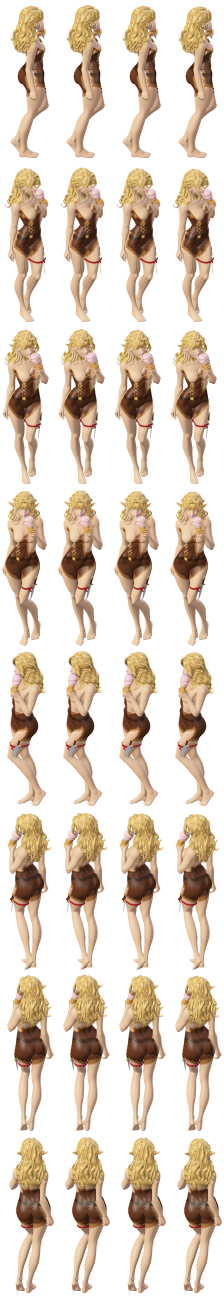
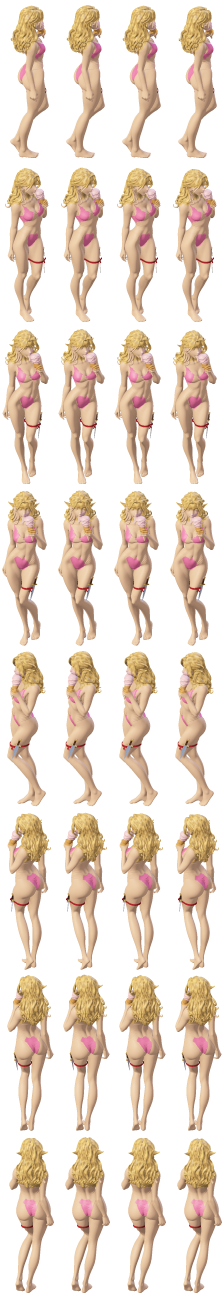
Elyra: pinta só o biquíni do modelo (rosa), resto na pele; mantém fita e adaga na coxa
Claude-Session: https://claude.ai/code/session_01SXT9RkSNWGpum4vy2atWQs

diff --git a/ferramentas/elfa/biq2.py b/ferramentas/elfa/biq2.py
@@ -1,0 +1,36 @@
+import numpy as np, scipy.sparse as sp, sys
+from scipy.sparse.csgraph import dijkstra
+d=np.load('adj.npz'); F=d['F']; U=d['uniq']
+fr=np.load('fr.npy'); L=np.load('L.npy')
+x,y,z=U[:,0],U[:,1],U[:,2]
+K=float(sys.argv[1]) if len(sys.argv)>1 else 60
+e=np.concatenate([F[:,[0,1]],F[:,[1,2]],F[:,[2,0]]])
+ln=np.linalg.norm(U[e[:,0]]-U[e[:,1]],axis=1)
+w=ln*(1+K*np.clip(np.maximum(fr[e[:,0]],fr[e[:,1]])/0.02,0,4)**2)
+G=sp.coo_matrix((w,(e[:,0],e[:,1])),shape=(len(U),len(U))).tocsr()
+def seed(px,pz,front=True):
+    i=np.where((np.abs(z-pz)<0.5)&(np.abs(x-px)<0.6))[0]
+    return int(i[np.argmin(y[i])] if front else i[np.argmax(y[i])])
+from pick import pick
+# (yaw, x, y) em imagens 500x1000 (y já com o deslocamento +60 da figura de conferência)
+BQ=[(0,255,330),(0,250,315),(0,215,135),(0,300,145),(0,225,150),(0,295,130),(180,250,325),(180,240,300),(180,270,300)]
+PL=[(0,270,260),(0,240,240),(0,300,250),(0,185,390),(0,290,420),(0,262,165),(0,240,100),(0,200,300),(0,320,290),(0,190,250),(0,330,240),
+    (180,200,380),(180,340,360),(180,240,260),(180,250,220),(180,200,330),(180,330,330),(180,250,150),(180,200,200),(180,300,200),
+    (90,230,330),(90,260,250),(270,280,330),(270,250,250),
+    (0,215,262),(0,195,95),(0,268,135),(0,285,128),(180,250,265),(180,200,272),(180,300,262),(180,190,285),(90,285,255),(90,295,245)]
+def pk(L_):
+    out=[]
+    for q in L_:
+        try: out.append(pick(*q))
+        except ValueError as er: print(er)
+    return out
+biq=pk(BQ); pele=pk(PL)
+pele+=list(np.where(((z<36)|(z>83))&(L==0))[0][::50])
+src=np.array(biq+pele); cls=np.array([1]*len(biq)+[0]*len(pele))
+dist,pred,sources=dijkstra(G,directed=False,indices=src,min_only=True,return_predecessors=True)
+lab=np.zeros(len(U),int)
+ok=sources>=0
+m={s:c for s,c in zip(src,cls)}
+lab[ok]=np.array([m[s] for s in sources[ok]])
+B=(lab==1)&(L!=2)&(L!=3)
+np.save('biq.npy',B); print('biquini verts',B.sum())

diff --git a/ferramentas/elfa/final.py b/ferramentas/elfa/final.py
@@ -28,26 +28,12 @@ noise = rng.normal(0, 1, nv)
 for k in range(6): noise = P @ noise
 nz = noise[cab] / (noise[cab].std() + 1e-9)
 col[cab] *= np.clip(1 + 0.12 * nz, 0.75, 1.25)[:, None]
-col[roupa] = COURO; spec[roupa] = 0.35
-# borda costurada da roupa: anéis perto do limite
-fora = (~roupa).astype(np.float32); dist = np.zeros(nv)
-m = fora.copy()
-for k in range(1, 4):
-    m = np.minimum(1, m + A @ m)
-    dist[(m > 0) & roupa & (dist == 0)] = k
-borda = roupa & (dist > 0) & (dist <= 3)
-col[borda] = BORDA
-xc = -1.0; frente = vn[:, 1] < 0
-# cinto na cintura com fivela
-cinto = roupa & (z > 58.2) & (z < 60.0)
-col[cinto] = CINTO
-fivela = cinto & frente & (np.abs(x - xc) < 1.0)
-col[fivela] = FIVELA; spec[fivela] = 0.9
-# cordões cruzados na frente do corpete
-zz = z - 61.0
-cr = roupa & frente & (z > 61) & (z < 69.5) & (np.abs(x - xc) < 1.3)
-zig = np.abs(np.abs(((zz) % 2.2) - 1.1) * 1.15 - np.abs(x - xc)) < 0.22
-col[cr & zig] = CORDAO
+# biquíni rosa: só a peça esculpida no modelo (bordas achadas na malha, biq2.py); o resto é pele
+bq = np.load('biq.npy').astype(float)
+for k in range(4): bq = P @ bq
+biq = (bq > 0.5) & ~cab & ~sorv
+col[roupa & ~biq] = PELE
+col[biq] = srgb('e8679c'); spec[biq] = 0.45
 # sorvete: bola rosa em cima, casquinha embaixo
 col[sorv] = SORVETE; spec[sorv] = 0.5
 casq = sorv & (z < 82.5)

diff --git a/ferramentas/elfa/viz.py b/ferramentas/elfa/viz.py
@@ -1,0 +1,24 @@
+import numpy as np, sys
+from scipy.spatial import cKDTree
+from render import *
+t=np.load('t.npy');n=np.load('n.npy');v=t.reshape(-1,3)
+d=np.load('adj.npz'); U=d['uniq']; tree=cKDTree(U)
+c=(v.min(0)+v.max(0))/2; c[2]=0
+def views(attr_fn, yaws=(0,90,180,270), elev=0, size=(360,820), sc=7.8):
+    out=[]
+    L=np.array([-0.4,-0.5,0.75]);L/=np.linalg.norm(L)
+    for yaw in yaws:
+        m,nb,z,p=render(t,n,yaw,elev,size,sc,c)
+        s=np.clip((nb*L).sum(2),0,1)*0.75+0.25
+        img=np.zeros(m.shape+(3,))
+        idx=np.where(m)
+        _,vi=tree.query(p[idx]+c, k=1)
+        img[idx]=attr_fn(vi)
+        out.append((np.clip(img*s[...,None],0,1)*255).astype(np.uint8))
+    return np.hstack(out)
+if __name__=='__main__':
+    r=np.load('vdata.npz')['rough']
+    def f(vi):
+        x=np.clip(r[vi]/0.08,0,1)[:,None]
+        return np.array([0.9,0.9,0.9])*(1-x)+np.array([1,0.2,0.1])*x
+    Image.fromarray(views(f)).save('rough.png')

diff --git a/ferramentas/elfa/pick.py b/ferramentas/elfa/pick.py
@@ -1,0 +1,13 @@
+import numpy as np
+from scipy.spatial import cKDTree
+from render import *
+t=np.load('t.npy');n=np.load('n.npy');v=t.reshape(-1,3)
+U=np.load('adj.npz')['uniq']; tree=cKDTree(U)
+c=(v.min(0)+v.max(0))/2; c[2]=0
+_cache={}
+def pick(yaw,px,py):
+    if yaw not in _cache: _cache[yaw]=render(t,n,yaw,0,(500,1000),10.5,c)
+    m,nb,z,p=_cache[yaw]
+    if not m[py,px]:
+        raise ValueError(f'fora do corpo {yaw} {px} {py}')
+    return int(tree.query(p[py,px]+c)[1])

diff --git a/ferramentas/elfa/LEIA-ME.md b/ferramentas/elfa/LEIA-ME.md
@@ -4,8 +4,8 @@ Modelo: "Summer Elf with Ice Cream" (Cults3D, autor GeraZyb). O STL **não** fic
 Para refazer: coloque o STL como `elfa.stl` numa pasta de trabalho e rode, nessa ordem:
 
 1. `python3 -c "from render import *; t=load_stl('elfa.stl'); np.save('t.npy',t); np.save('n.npy',vertex_normals(t))"`
-2. `seg.py` → `rough.py` → `cut.py` → `labels.py` (regiões: pele, roupa, cabelo, sorvete)
-3. `final.py` (cores, roupa de couro, cinto, cordões, fita e adaga na coxa)
+2. `seg.py` → `rough.py` → `cut.py` → `labels.py` (cabelo, sorvete) → `biq2.py` (biquíni: bordas esculpidas, sementes em `pick.py`)
+3. `final.py` (cores: pele, cabelo, biquíni rosa, sorvete; fita e adaga na coxa)
 4. `shade.py <saida>` → `idle.png` + `sprites.json` (8 direções, 4 quadros de respiração)
 
 Depende de numpy, scipy, numba e pillow. Câmera e luzes iguais às de `ferramentas/sprites3d/render.py`.
